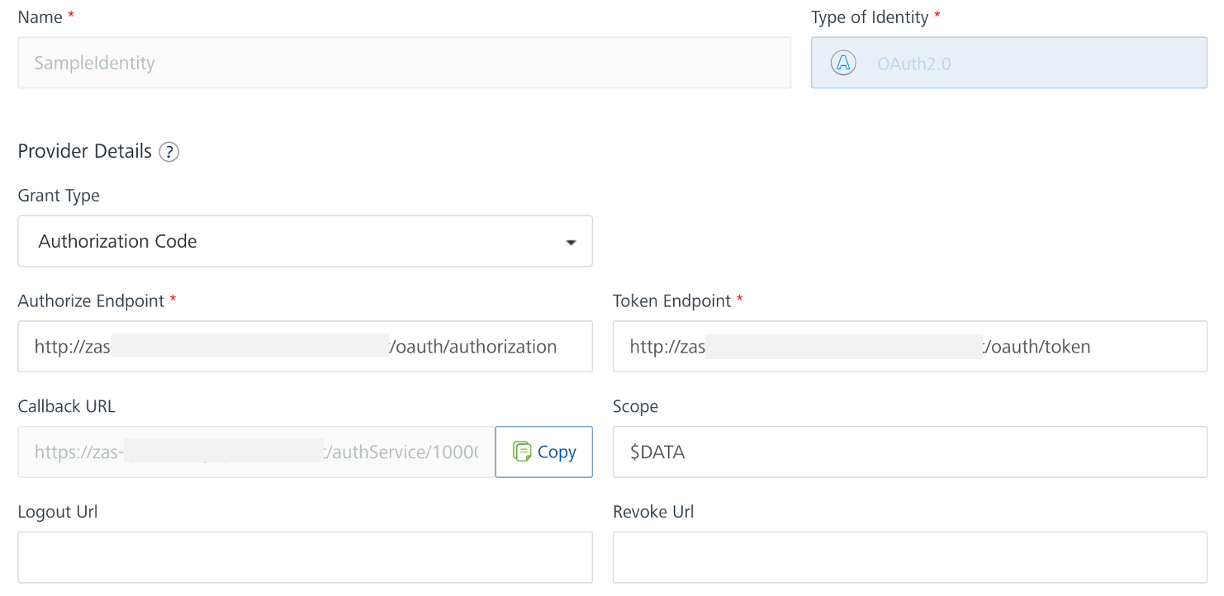
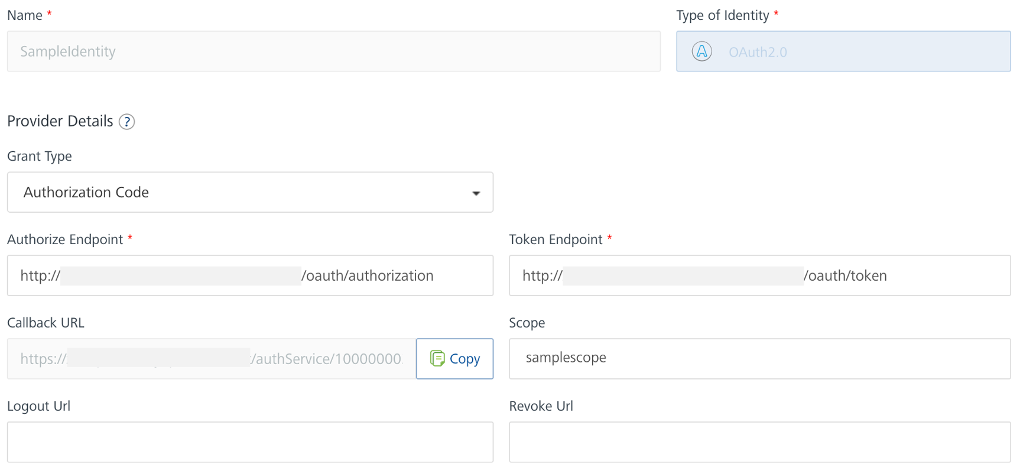
commit feedback from Art and RD install

diff --git a/docs/tutorials/adaptertutorial.md b/docs/tutorials/adaptertutorial.md
@@ -13,6 +13,10 @@ The tutorial guides you in creating an app in Foundry and connecting the app to 
     - password: `password`
 
 - You have added and configured a schema and a scope in the Domino REST API. 
+
+    !!!tip
+        For more information, see [Using Admin UI](https://opensource.hcltechsw.com/Domino-rest-api/tutorial/adminui.html) in the Domino REST API documentation. 
+
 - Your schema should have a configured form with a `dql` mode similar to the `default` mode. 
 
 ## Log in to Volt MX Foundry
@@ -47,8 +51,13 @@ The tutorial guides you in creating an app in Foundry and connecting the app to 
 
         Example:  `[Domino REST API server URL]/oauth/token`
 
-    4. In the **Callback URL** text box, click **Copy**. <br/> You need the callback URL when configuring your app in Domino REST API. 
-    5. Enter `$DATA` in the **Scope** text box.
+    4. In the **Callback URL** text box, click **Copy**. <br/> You need the callback URL when configuring your app in Domino REST API.
+    5. [Create and configure an application](#create-and-configure-an-application-in-domino-rest-api) in Domino REST API. 
+
+        !!!note "Caution"
+            You need to pause the execution of the **Configure an Identity Service** procedure without saving your initial changes and complete the creation and configuration of an app in Domino REST API before proceeding. 
+
+    6. Enter the name of the scope that you have configured in your app in Domino REST API in the **Scope** text box. 
 
     ![](../assets/images/identityproviderdetails.png)
 
@@ -162,3 +171,28 @@ The tutorial guides you in creating an app in Foundry and connecting the app to 
 5. Beside the fields, input the value, then click **Send**. The ID of the record is displayed on the **Response** console after the successful insertion of the record.
 6. Save the ID for updating or deleting the record using PUT or DELETE method, respectively.
 
+## Additional procedure
+
+### Create and configure an application in Domino REST API
+
+1. Log in to Domino REST AP].
+
+    !!!tip
+        For more details, see [Access Domino REST API](../howto/accessdrapi.md).
+
+2. Select **Application Management - OAuth** from the home page.
+3. On the **Application Management** page, click **Add Application**.
+4. Under **Add New Application**, fill in the form:
+    1. Enter an **Application Name**.
+    2. Provide a **Description**.
+    3. Paste the callback URL that you have copied when configuring the Identity Service in Foundry in the **Callback URLs** text box.
+    4. Provide the application startup page URL under **Startup Page**. 
+    4. Select and add a scope in the **Scope** field.
+5. Click **Add**. 
+6. Hover over the application tile and click **Generate Application Secret**. Take note of the App secret and the App ID.
+
+!!!note
+    Make sure to take note of the App ID and App secret as you need these information in configuring the Identity Service in Foundry. 
+
+
+ 

diff --git a/docs/references/index.md b/docs/references/index.md
@@ -14,6 +14,9 @@ Useful [FAQ and common procedures](kubecheatsheet.md) related to [Volt MX Go ins
 
 The full specification of the API is available in a structured format in the [Rosetta API reference documentation](https://help.hcltechsw.com/docs/voltmxgo/javadoc/index.html).
 
+## HCL Domino REST API formerly known as HCL Project KEEP
+
+HCL Project KEEP has been re-branded to HCL Domino REST API to align with the HCL VOLT MX GO strategy. However, you might still find references to the KEEP branding throughout the product and in the documentation.
 
 <!--## What's new
 

diff --git a/docs/tutorials/installrancher.md b/docs/tutorials/installrancher.md
@@ -52,14 +52,7 @@ Rancher Desktop needs the forwarding of specific ports to WSL2. The script you n
 
     The output should appear as follows:
 
-    ```
-    Listen on ipv4: Connect to ipv4:
-    Address Port Address Port
-    --------------- ---------- --------------- ----------
-    0.0.0.0 1352 172.30.87.124 1352
-    0.0.0.0 443 172.30.87.124 443
-    0.0.0.0 80 172.30.87.124 80
-    ```
+    ![Port confirmation result](../assets/images/portforwarding.png)
 
 6. Close the **Windows PowerShell**.
 
